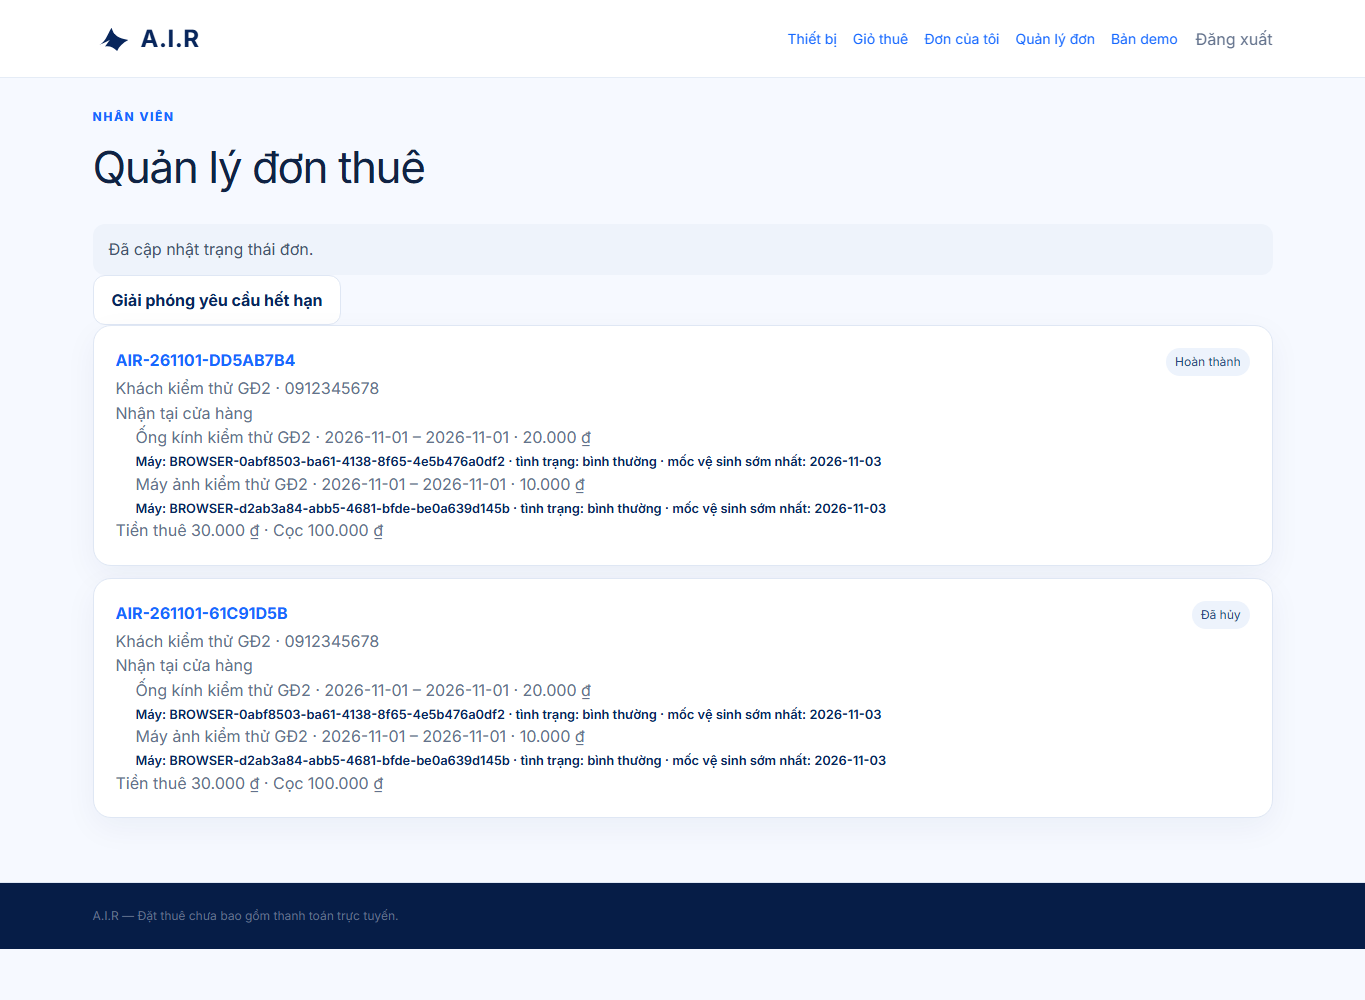
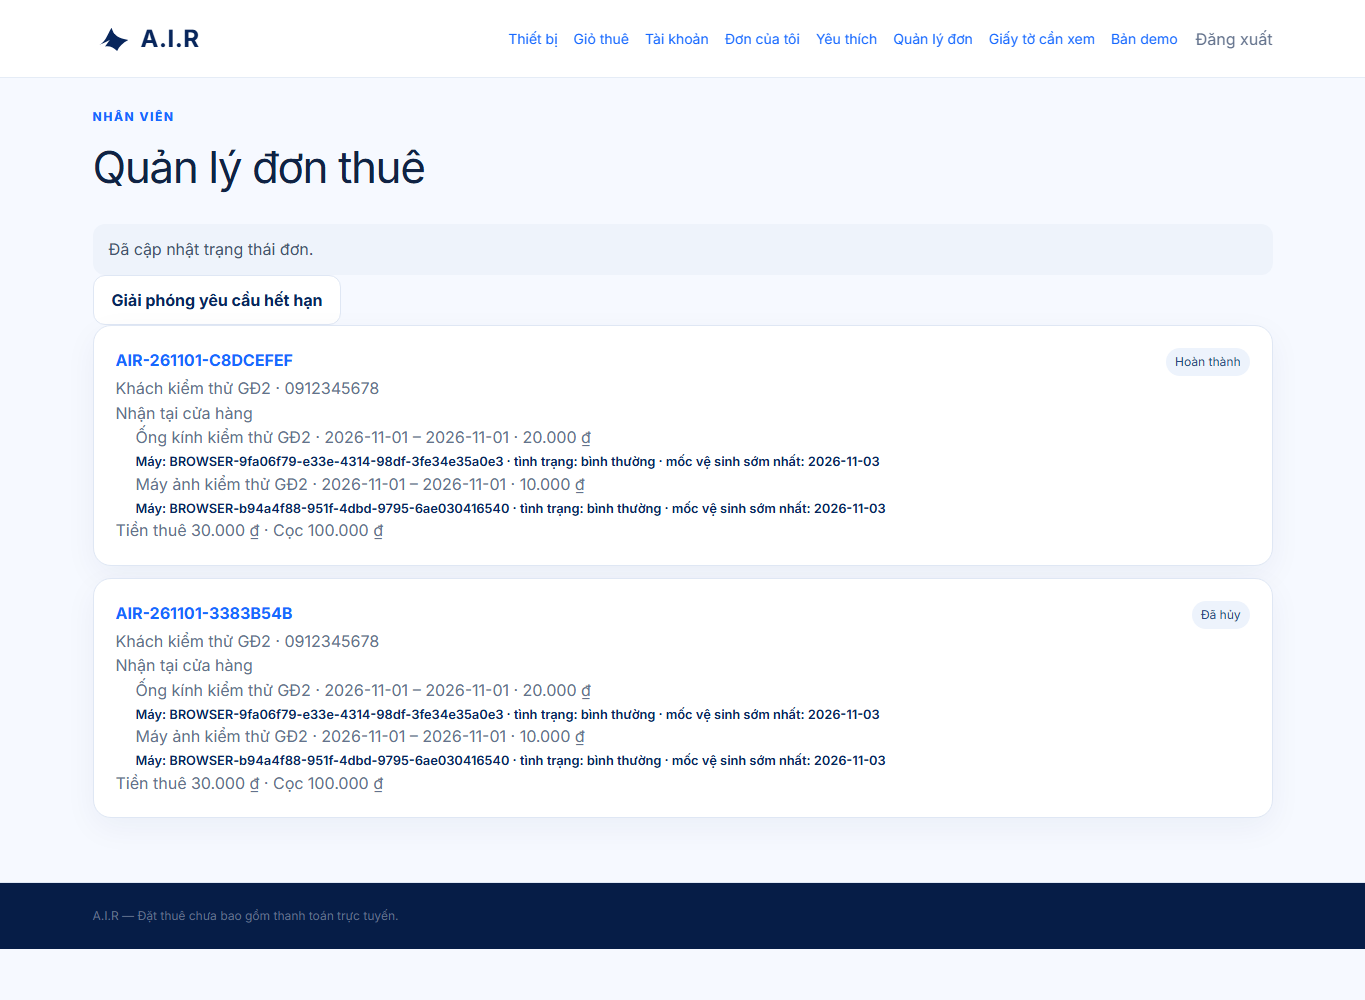
docs: record full local acceptance for stage 2 and 3

diff --git a/docs/GD3-ACCOUNTS.md b/docs/GD3-ACCOUNTS.md
@@ -1,7 +1,7 @@
 # GĐ 3 — Tài khoản, yêu thích và giấy tờ tùy chọn
 
-**Trạng thái:** xong phần code và unit test local. 48 pgTAP của tài khoản đã viết nhưng **chưa chạy
-lại** vì Docker Desktop tắt; chưa xác minh OTP với SMS provider thật.
+**Trạng thái:** xong phần code, đã chạy nghiệm thu local đầy đủ ngày 01/11/2026. Chỉ còn xác minh
+OTP với SMS provider thật (local dùng magic link email).
 
 ## Phạm vi đã làm
 
@@ -25,6 +25,9 @@ lại** vì Docker Desktop tắt; chưa xác minh OTP với SMS provider thật.
   bản ghi DB mới hoạt động. Không bắt buộc để đặt thuê.
 - **Fixture SMS đã khôi phục.** `supabase/config.toml` trở về bản trước GĐ 3 (không còn `test_otp`
   và Twilio giả) sau khi chạy thử OTP local.
+- **Xóa giấy tờ đi qua Storage API.** Storage API hiện chặn mọi lệnh xóa trực tiếp `storage.objects`
+  (trigger bảo vệ, SQLSTATE 42501); pgTAP được cập nhật theo hành vi thật này và ứng dụng xóa object
+  bằng service role qua Storage API, không xóa bằng SQL.
 
 ## Kiểm thử
 
@@ -33,8 +36,11 @@ lại** vì Docker Desktop tắt; chưa xác minh OTP với SMS provider thật.
 | `cd web && npm test` | 29/29 pass (11 file, gồm 2 test flash-path favorites) |
 | `cd web && npm run lint` | sạch |
 | `cd web && npm run typecheck` | sạch |
-| `supabase test db` | **chưa chạy** — cần Docker; tổng 140 assertion (34 + 9 + 49 + 48) |
-| `scripts/check-booking-concurrency.mjs` | **chưa chạy** — cần Docker |
+| `cd web && npm run build` | thành công với env Supabase local, có route `/yeu-thich` |
+| `npx supabase db reset` + `supabase test db` | **140/140 pass** (34 + 9 + 49 + 48) |
+| `node scripts/check-booking-concurrency.mjs` | **6/6 pass** |
+| `node scripts/check-gd2-browser.mjs` | **pass** toàn bộ luồng, gồm kiểm tra tràn ngang ở 390px |
+| Smoke favorites (Playwright, chạy tay) | **pass**: đăng nhập → lưu ở chi tiết → thấy trong `/yeu-thich` → bỏ |
 
 ## Cách bật local
 

diff --git a/docs/ROADMAP.md b/docs/ROADMAP.md
@@ -262,15 +262,15 @@ cửa sổ 63 ngày, chưa phải lịch tháng dạng lưới. UI không dùng 
 
 ### GĐ 3 — Tài khoản (1 tuần)
 
-**Trạng thái: xong phần code, kiểm thử local đang chờ Docker.** 48 pgTAP assertions cho tài khoản
-đã viết nhưng chưa chạy lại; 29 unit test Next.js pass, lint và typecheck sạch.
+**Trạng thái: xong phần code; đã nghiệm thu local ngày 01/11/2026.** 140 pgTAP, 6 bài concurrency,
+browser E2E và smoke favorites đều pass; 29 unit test, lint và typecheck sạch.
 
 - [x] OTP số điện thoại (opt-in `AIR_ENABLE_PHONE_OTP`), session cookie refresh qua middleware.
 - [x] Hồ sơ, sổ địa chỉ, đơn của tôi, yêu thích đồng bộ qua `user_favorites` + RLS.
 - [x] Upload CCCD/giấy tờ tùy chọn cho đơn (gate `AIR_ENABLE_IDENTITY_DOCUMENTS`, mặc định tắt).
 - [x] Guard trang `/admin`, `/quan-ly-don`, `/quan-ly-giay-to` theo role ở server component.
 - [ ] Xác minh OTP với SMS provider thật (local đang dùng fixture, đã khôi phục config).
-- [ ] Chạy `supabase test db` (140 assertions) và concurrency checks khi Docker bật lại.
+- [x] Chạy `supabase test db` (140/140) và 6 concurrency checks khi Docker bật lại.
 
 Xem [`docs/GD3-ACCOUNTS.md`](GD3-ACCOUNTS.md).
 
